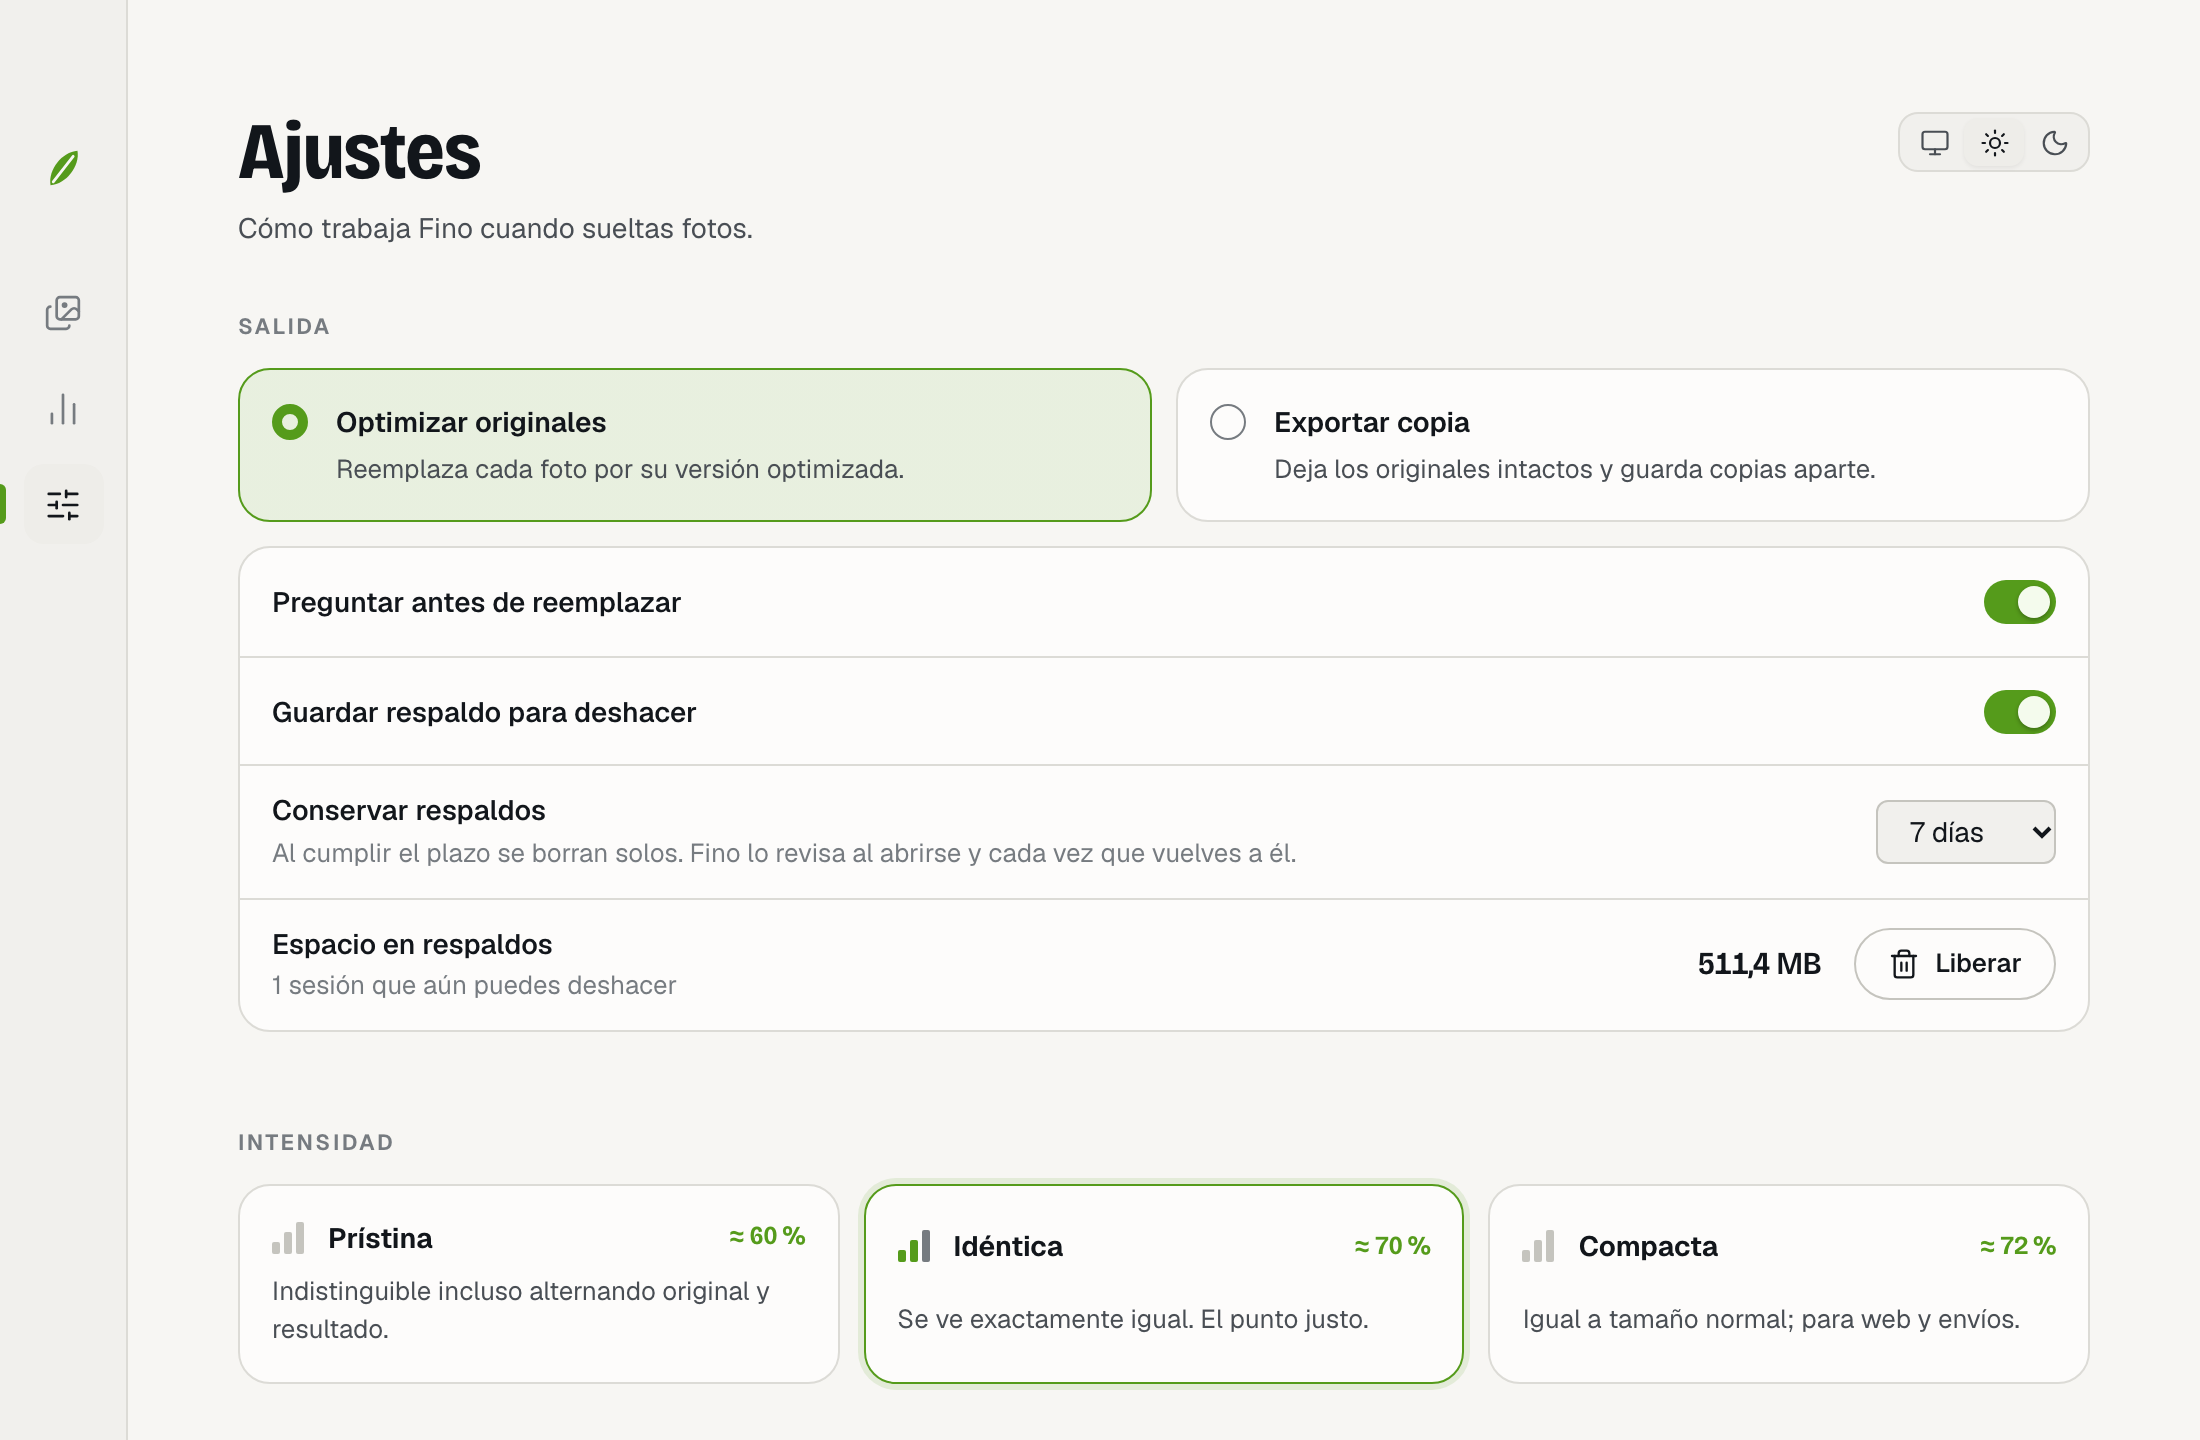
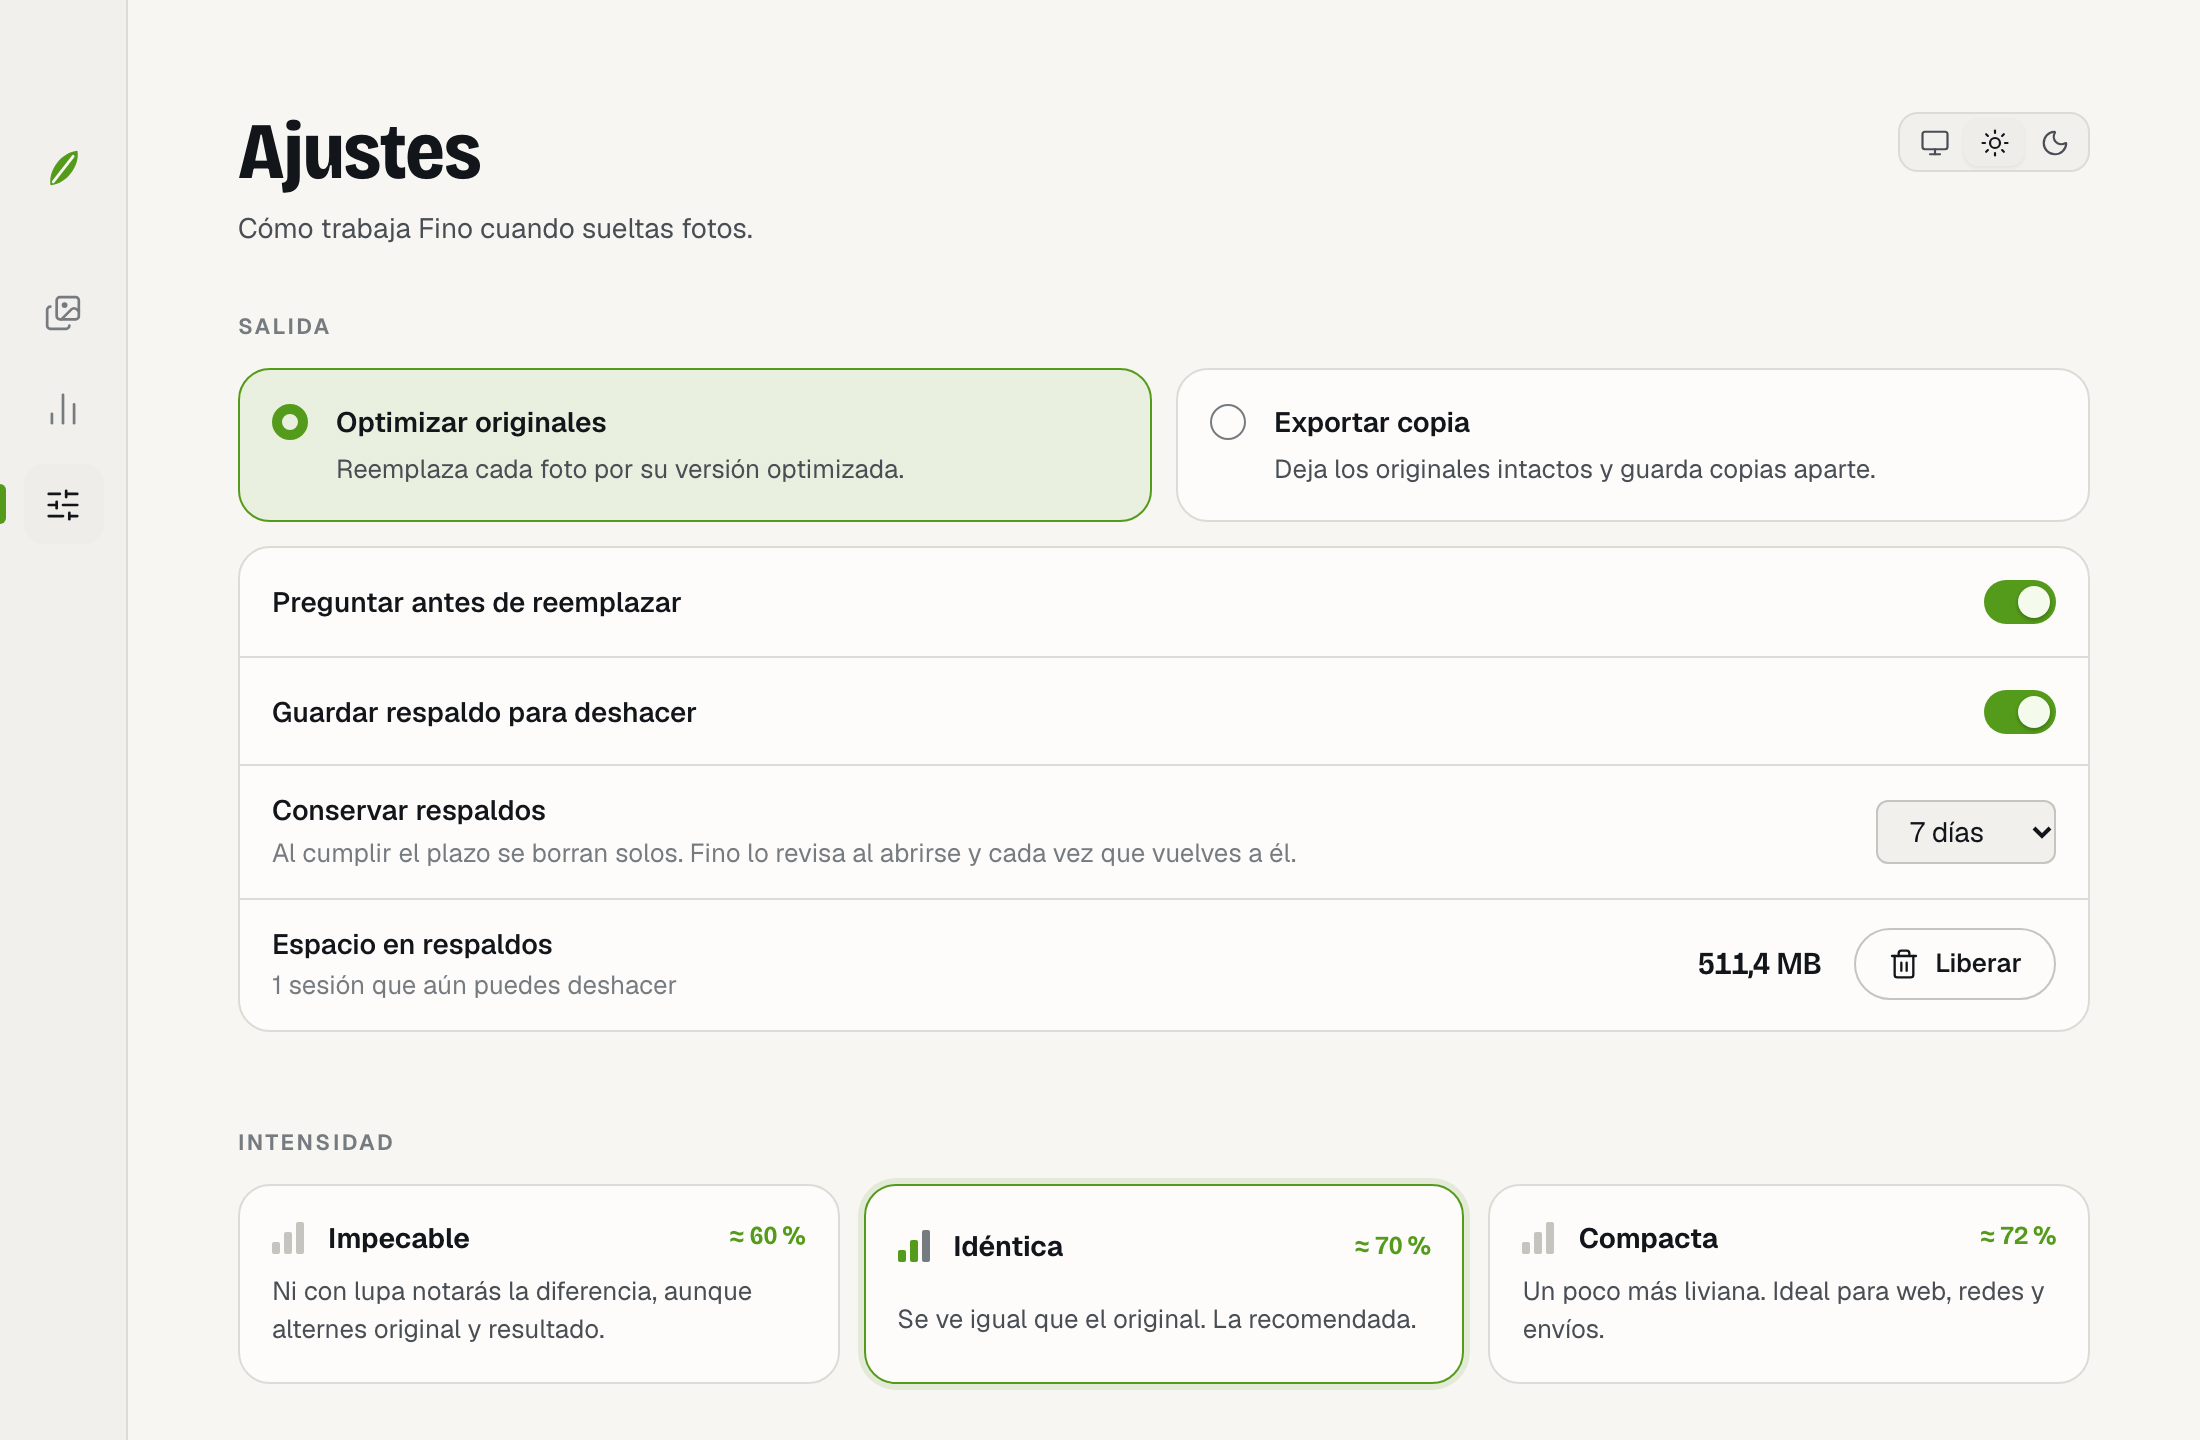
docs: screenshots of a large batch in progress and finished
The dev preview gains ?demo, a 1,248-photo camera batch at the measured
savings, used to capture the README screenshots.

Changed region(s): [[0.68, 0.8438, 0.9273, 0.9375], [0.1236, 0.8438, 0.34, 0.9375], [0.4327, 0.9062, 0.6491, 0.9375]]

diff --git a/src/dev/mockIpc.ts b/src/dev/mockIpc.ts
@@ -3,11 +3,13 @@
  * Never bundled into the app: main.tsx imports it only in dev builds outside Tauri.
  *
  * URL params: ?state=idle|running|done  &view=optimize|history|settings|compare
- *             &theme=system|light|dark   (used to capture docs/screenshots)
+ *             &theme=system|light|dark  &demo (a 1 248-photo camera batch, see demoBatch.ts)
+ * Used to capture docs/screenshots.
  */
 import { emit } from "@tauri-apps/api/event";
 import { mockIPC, mockWindows } from "@tauri-apps/api/mocks";
 import type { FileResult, History, SessionEntry, SessionSummary, Settings } from "../lib/types";
+import { DEMO_DONE_AT_START, DEMO_TOTAL, demoResult } from "./demoBatch";
 
 const ROOT = `${location.pathname.startsWith("/") ? "" : "/"}`;
 const FIXTURES = "/dev-fixtures";
@@ -43,7 +45,7 @@ function result(i: number): FileResult {
   };
 }
 
-const results: FileResult[] = [
+const sampleResults: FileResult[] = [
   ...FILES.map((_, i) => result(i)),
   { ...result(0), id: 3, name: "IMG_2041.jpg", status: "skipped", skipReason: "alreadyOptimized", outputBytes: 243_900, outputs: [] },
 ];
@@ -109,6 +111,9 @@ function clickLater(name: string, delay: number): void {
 
 type Emit = (event: unknown) => void;
 
+/** Pace of the demo batch: one photo lands on the pile per tick. */
+const DEMO_TICK_MS = 900;
+
 let pendingOpen: string[] = [];
 
 function channelEmitter(payload: Record<string, unknown> | undefined): Emit {
@@ -126,6 +131,8 @@ export function installMocks(): void {
   const view = params.get("view");
   const state = view === "compare" ? "done" : (params.get("state") ?? "idle");
   const theme = params.get("theme");
+  const demo = params.has("demo");
+  const results = demo ? Array.from({ length: DEMO_TOTAL }, (_, i) => demoResult(i)) : sampleResults;
   if (theme === "light" || theme === "dark") settings = { ...settings, appearance: theme };
   mockWindows("main");
   mockIPC((cmd, payload) => {
@@ -150,7 +157,13 @@ export function installMocks(): void {
         return results;
       case "optimize": {
         const emit = channelEmitter(payload as Record<string, unknown>);
-        emit({ kind: "started", sessionId: "s5", total: results.length });
+        emit({ kind: "started", sessionId: "s5", total: demo ? DEMO_TOTAL : results.length });
+        if (state === "running" && demo) {
+          results.slice(0, DEMO_DONE_AT_START).forEach((r) => emit({ kind: "file", result: r }));
+          let next = DEMO_DONE_AT_START;
+          setInterval(() => emit({ kind: "file", result: demoResult(next++) }), DEMO_TICK_MS);
+          return new Promise(() => undefined);
+        }
         const shown = state === "running" ? results.slice(0, 2) : results;
         shown.forEach((r) => emit({ kind: "file", result: r }));
         if (state === "running") return new Promise(() => undefined);

diff --git a/src/dev/demoBatch.ts b/src/dev/demoBatch.ts
@@ -1,0 +1,52 @@
+/**
+ * A large, realistic batch for the dev preview (`?demo`): a wedding photographer's 24 MP
+ * camera files saving ~69 %, the ratio measured on real shoots. Previews live in
+ * dev-fixtures/camera (not in the repo).
+ */
+import type { FileResult } from "../lib/types";
+
+export const DEMO_TOTAL = 1248;
+/** Photos already finished when the preview opens mid-batch. */
+export const DEMO_DONE_AT_START = 842;
+
+const PREVIEWS = [
+  "_MAN4943", "_MAN4949", "_MAN5080", "_MAN4971", "_MAN6168", "_MAN4947",
+  "_MAN5013", "_MAN6175", "_MAN4963", "_MAN5050", "_MAN7452", "_MAN6164",
+];
+const FIRST_FRAME = 4936;
+const SKIP_EVERY = 53;
+
+/** Deterministic 0–1 noise so every run (and screenshot) looks the same. */
+const noise = (i: number) => {
+  const x = Math.sin(i * 12.9898) * 43758.5453;
+  return x - Math.floor(x);
+};
+
+export function demoResult(i: number): FileResult {
+  const name = `_MAN${FIRST_FRAME + i * 3}.JPG`;
+  const originalBytes = Math.round(4_600_000 + noise(i) * 2_600_000);
+  const preview = `/dev-fixtures/camera/${PREVIEWS[i % PREVIEWS.length]}.jpg`;
+  const skipped = i % SKIP_EVERY === SKIP_EVERY - 1;
+  const outputBytes = skipped ? originalBytes : Math.round(originalBytes * (0.27 + noise(i + 7) * 0.09));
+  return {
+    id: i,
+    path: `/Volumes/Fotos/Boda/${name}`,
+    name,
+    status: skipped ? "skipped" : "done",
+    originalBytes,
+    outputBytes,
+    outputs: skipped
+      ? []
+      : [{ path: preview, bytes: outputBytes, width: 6048, height: 4024, sizeLabel: "Original" }],
+    originalPath: skipped ? null : preview,
+    width: 6048,
+    height: 4024,
+    score: skipped ? null : 85 + noise(i + 3) * 1.8,
+    quality: skipped ? null : 74 + Math.round(noise(i + 5) * 10),
+    skipReason: skipped ? "alreadyOptimized" : null,
+    error: null,
+    millis: 560 + Math.round(noise(i + 11) * 300),
+    previewPath: skipped ? null : preview,
+    lossless: false,
+  };
+}

diff --git a/README.md b/README.md
@@ -13,18 +13,20 @@ Fino es una app para macOS que recomprime JPEG con un criterio *perceptual*. Pru
 misma resolución · mismos metadatos · SSIMULACRA 2 ≈ 85
 ```
 
-![Sesión terminada: ahorro por foto y total](docs/screenshots/optimize-dark.png)
+![Fino optimizando un lote de 1248 fotos de cámara](docs/screenshots/running-dark.png)
 
 <table>
   <tr>
     <td><img src="docs/screenshots/compare.jpg" alt="Comparador antes/después con divisor"></td>
-    <td><img src="docs/screenshots/drop-light.png" alt="Pantalla inicial en tema claro"></td>
+    <td><img src="docs/screenshots/done-light.png" alt="Sesión terminada: ahorro por foto"></td>
   </tr>
   <tr>
     <td><img src="docs/screenshots/history-light.png" alt="Historial de sesiones"></td>
     <td><img src="docs/screenshots/settings-light.png" alt="Ajustes"></td>
   </tr>
 </table>
+
+<sub>Capturas con datos de ejemplo: fotos reales de cámara y cifras simuladas con el ahorro medido (~67 %).</sub>
 
 ## Qué hace
 
@@ -34,7 +36,7 @@ misma resolución · mismos metadatos · SSIMULACRA 2 ≈ 85
 | **Respaldos** | Viven en `~/Library/Application Support/app.fino.desktop/backups/`. Se borran solos al vencer (Fino lo revisa al abrirse y al volver a la ventana). En Ajustes ves cuánto ocupan y puedes **liberarlos**; en Historial, descartar el de una sesión. Si los borras a mano, Fino lo detecta. |
 | **Exportar copia** | Deja los originales intactos. Guarda las copias en una carpeta `Fino` junto a cada foto o en un destino fijo, y respeta la estructura de carpetas. |
 | **Varios tamaños** | Hasta 4 tamaños por exportación (lado largo, ancho máx. o alto máx.). Respeta la orientación EXIF y nunca amplía. |
-| **Intensidad** | *Prístina* (indistinguible incluso alternando con el original), *Idéntica* (por defecto) y *Compacta*. |
+| **Intensidad** | *Impecable* (ni con lupa notarás la diferencia), *Idéntica* (recomendada: se ve igual que el original) y *Compacta* (un poco más liviana, para web y redes). |
 | **Comparar** | Vista antes/después con divisor deslizable y **lupa al 100 %** que sigue al cursor. Solo se ofrece si el original y la versión optimizada siguen donde estaban. |
 | **Historial** | Ahorro total, sesiones, deshacer y exportación del log a CSV con el motivo de cada archivo omitido. |
 | **Tema claro y oscuro** | Sigue a macOS o se fija desde Ajustes; también la barra de título y los diálogos. |
@@ -66,7 +68,7 @@ JPEG ─► inspección ─► decodificación ─► [resize Lanczos3]
 
 | Intensidad | Global (½ res) | Peor tile | SSIMULACRA 2 real |
 |---|---|---|---|
-| Prístina | ≥ 94,0 | ≥ 91,0 | ≈ 89 |
+| Impecable | ≥ 94,0 | ≥ 91,0 | ≈ 89 |
 | Idéntica | ≥ 91,5 | ≥ 86,5 | ≈ 85,5 |
 | Compacta | ≥ 89,0 | ≥ 82,5 | ≈ 82 |
 
@@ -120,4 +122,4 @@ cargo run --release -p fino-core --example calibrate -- carpeta/con/jpegs
 
 ## Licencias de terceros
 
-mozjpeg (IJG/BSD), zune-jpeg (MIT/Apache-2.0/Zlib), zensim (MIT/Apache-2.0), fast_image_resize (MIT/Apache-2.0) y Tauri (MIT/Apache-2.0). Fuentes: Bricolage Grotesque y Geist (SIL OFL 1.1). Las fotos de las capturas son de la Kodak Lossless True Color Image Suite.
+mozjpeg (IJG/BSD), zune-jpeg (MIT/Apache-2.0/Zlib), zensim (MIT/Apache-2.0), fast_image_resize (MIT/Apache-2.0) y Tauri (MIT/Apache-2.0). Fuentes: Bricolage Grotesque y Geist (SIL OFL 1.1). La foto del comparador es de la Kodak Lossless True Color Image Suite; las demás, del autor.

diff --git a/README.en.md b/README.en.md
@@ -13,18 +13,20 @@ Fino is a macOS app that recompresses JPEGs *perceptually*. It tries smaller and
 same resolution · same metadata · SSIMULACRA 2 ≈ 85
 ```
 
-![Finished session: savings per photo and in total](docs/screenshots/optimize-dark.png)
+![Fino optimizing a batch of 1,248 camera photos](docs/screenshots/running-dark.png)
 
 <table>
   <tr>
     <td><img src="docs/screenshots/compare.jpg" alt="Before/after viewer with a split divider"></td>
-    <td><img src="docs/screenshots/drop-light.png" alt="Start screen in light mode"></td>
+    <td><img src="docs/screenshots/done-light.png" alt="Finished session: savings per photo"></td>
   </tr>
   <tr>
     <td><img src="docs/screenshots/history-light.png" alt="Session history"></td>
     <td><img src="docs/screenshots/settings-light.png" alt="Settings"></td>
   </tr>
 </table>
+
+<sub>Screenshots use sample data: real camera photos, figures simulated at the measured savings (~67%).</sub>
 
 > The interface is in Spanish for now.
 
@@ -36,7 +38,7 @@ same resolution · same metadata · SSIMULACRA 2 ≈ 85
 | **Backups** | Stored in `~/Library/Application Support/app.fino.desktop/backups/`. They expire on their own (checked when Fino opens and whenever you return to it). Settings shows how much space they take and **frees** them; History discards a single session's backup. Backups deleted by hand are detected. |
 | **Export a copy** | Leaves originals untouched. Copies go to a `Fino` folder next to each photo or to a fixed destination, mirroring the folder structure. |
 | **Several sizes** | Up to 4 sizes per export (long edge, max width or max height). Honors EXIF orientation and never upscales. |
-| **Strength** | *Pristine* (indistinguishable even when flipping between versions), *Identical* (default) and *Compact*. |
+| **Strength** | *Flawless* (no difference even under a loupe), *Identical* (recommended: looks the same as the original) and *Compact* (a little lighter, for the web and social media). |
 | **Compare** | Before/after view with a draggable divider and a **100% loupe** that follows the cursor. Only offered while both the original and the optimized file are still in place. |
 | **History** | Total savings, sessions, undo, and a CSV log with the reason each file was skipped. |
 | **Light and dark** | Follows macOS or is fixed from Settings — title bar and dialogs included. |
@@ -68,7 +70,7 @@ JPEG ─► inspect ─► decode ─► [Lanczos3 resize]
 
 | Strength | Global (½ res) | Worst tile | True SSIMULACRA 2 |
 |---|---|---|---|
-| Pristine | ≥ 94.0 | ≥ 91.0 | ≈ 89 |
+| Flawless | ≥ 94.0 | ≥ 91.0 | ≈ 89 |
 | Identical | ≥ 91.5 | ≥ 86.5 | ≈ 85.5 |
 | Compact | ≥ 89.0 | ≥ 82.5 | ≈ 82 |
 
@@ -122,4 +124,4 @@ cargo run --release -p fino-core --example calibrate -- folder/with/jpegs
 
 ## Third-party licenses
 
-mozjpeg (IJG/BSD), zune-jpeg (MIT/Apache-2.0/Zlib), zensim (MIT/Apache-2.0), fast_image_resize (MIT/Apache-2.0) and Tauri (MIT/Apache-2.0). Fonts: Bricolage Grotesque and Geist (SIL OFL 1.1). Screenshot photos come from the Kodak Lossless True Color Image Suite.
+mozjpeg (IJG/BSD), zune-jpeg (MIT/Apache-2.0/Zlib), zensim (MIT/Apache-2.0), fast_image_resize (MIT/Apache-2.0) and Tauri (MIT/Apache-2.0). Fonts: Bricolage Grotesque and Geist (SIL OFL 1.1). The comparison photo comes from the Kodak Lossless True Color Image Suite; the others are the author's.
